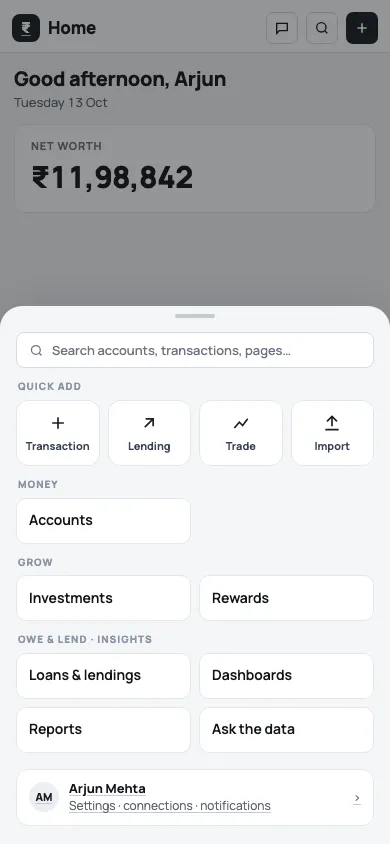
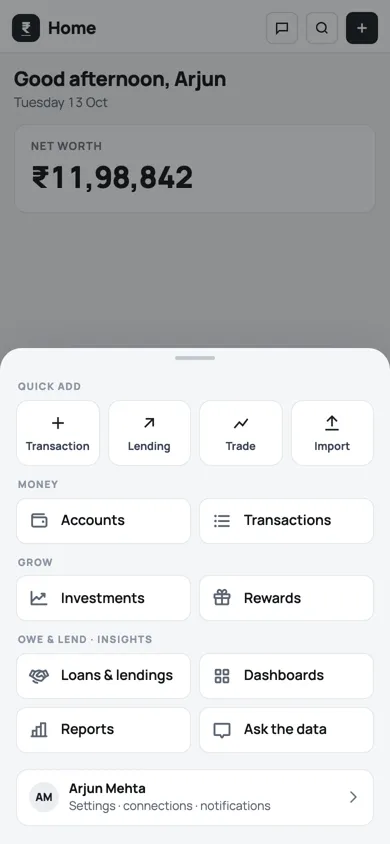
docs(ds): More sheet board — owner edits; Quick add exception to the single-+ rule
Claude-Session: https://claude.ai/code/session_01GuJVeVn4nSfBPv6fQZnC1T

diff --git a/design-system/screens/P-more.dc.html b/design-system/screens/P-more.dc.html
@@ -251,7 +251,6 @@ svg{flex:none}
 <div class="scrim"></div>
 <div class="dlg" style="max-height:92%;background:#F5F6F8" role="dialog" aria-label="More">
   <div style="padding:8px 16px 18px;overflow:auto">
-    <a class="inp" href="P-search.dc.html" style="color:#6B7280;margin-top:6px"><svg width="15" height="15" viewBox="0 0 24 24" fill="none" stroke="currentColor" stroke-width="2" aria-hidden="true"><circle cx="11" cy="11" r="7"/><path d="m20 20-3.5-3.5"/></svg>Search accounts, transactions, pages…</a>
     <div class="grp2">Quick add</div>
     <div style="display:grid;grid-template-columns:repeat(4,minmax(0,1fr));gap:8px">
       <a class="qa" href="P-transaction-create.dc.html"><svg width="20" height="20" viewBox="0 0 24 24" fill="none" stroke="#1B1E24" stroke-width="2" aria-hidden="true"><path d="M12 5v14M5 12h14"/></svg>Transaction</a>
@@ -260,12 +259,12 @@ svg{flex:none}
       <a class="qa" href="P-import.dc.html"><svg width="20" height="20" viewBox="0 0 24 24" fill="none" stroke="#1B1E24" stroke-width="2" aria-hidden="true"><path d="M12 16V4M6 10l6-6 6 6M4 20h16"/></svg>Import</a>
     </div>
     <div class="grp2">Money</div>
-    <div style="display:grid;grid-template-columns:1fr 1fr;gap:8px"><a class="it" href="P-accounts.dc.html">Accounts</a></div>
+    <div style="display:grid;grid-template-columns:1fr 1fr;gap:8px"><a class="it" href="P-accounts.dc.html"><svg style="color:#5B6472;flex:none" viewBox="0 0 256 256" width="20" height="20" fill="currentColor" aria-hidden="true"><path d="M196,136a16,16,0,1,1-16-16A16,16,0,0,1,196,136Zm40-36v80a32,32,0,0,1-32,32H60a32,32,0,0,1-32-32V60.92A32,32,0,0,1,60,28H192a12,12,0,0,1,0,24H60a8,8,0,0,0-8,8.26v.08A8.32,8.32,0,0,0,60.48,68H204A32,32,0,0,1,236,100Zm-24,0a8,8,0,0,0-8-8H60.48A33.72,33.72,0,0,1,52,90.92V180a8,8,0,0,0,8,8H204a8,8,0,0,0,8-8Z"/></svg>Accounts</a><a class="it" href="P-transactions.dc.html"><svg style="color:#5B6472;flex:none" viewBox="0 0 256 256" width="20" height="20" fill="currentColor" aria-hidden="true"><path d="M76,64A12,12,0,0,1,88,52H216a12,12,0,0,1,0,24H88A12,12,0,0,1,76,64Zm140,52H88a12,12,0,0,0,0,24H216a12,12,0,0,0,0-24Zm0,64H88a12,12,0,0,0,0,24H216a12,12,0,0,0,0-24ZM44,112a16,16,0,1,0,16,16A16,16,0,0,0,44,112Zm0-64A16,16,0,1,0,60,64,16,16,0,0,0,44,48Zm0,128a16,16,0,1,0,16,16A16,16,0,0,0,44,176Z"/></svg>Transactions</a></div>
     <div class="grp2">Grow</div>
-    <div style="display:grid;grid-template-columns:1fr 1fr;gap:8px"><a class="it" href="P-investments.dc.html">Investments</a><a class="it" href="P-rewards.dc.html">Rewards</a></div>
+    <div style="display:grid;grid-template-columns:1fr 1fr;gap:8px"><a class="it" href="P-investments.dc.html"><svg style="color:#5B6472;flex:none" viewBox="0 0 256 256" width="20" height="20" fill="currentColor" aria-hidden="true"><path d="M236,208a12,12,0,0,1-12,12H32a12,12,0,0,1-12-12V48a12,12,0,0,1,24,0v99l43.51-43.52a12,12,0,0,1,17,0L128,127l43-43H160a12,12,0,0,1,0-24h40a12,12,0,0,1,12,12v40a12,12,0,0,1-24,0V101l-51.51,51.52a12,12,0,0,1-17,0L96,129,44,181v15H224A12,12,0,0,1,236,208Z"/></svg>Investments</a><a class="it" href="P-rewards.dc.html"><svg style="color:#5B6472;flex:none" viewBox="0 0 256 256" width="20" height="20" fill="currentColor" aria-hidden="true"><path d="M216,68H190.06A33.82,33.82,0,0,0,196,49.69,36.62,36.62,0,0,0,158.31,12,33.44,33.44,0,0,0,134,23.25a54.65,54.65,0,0,0-6,8.3,54.65,54.65,0,0,0-6-8.3A33.44,33.44,0,0,0,97.69,12,36.62,36.62,0,0,0,60,49.69,33.82,33.82,0,0,0,65.94,68H40A20,20,0,0,0,20,88v32a20,20,0,0,0,16,19.6V200a20,20,0,0,0,20,20H200a20,20,0,0,0,20-20V139.6A20,20,0,0,0,236,120V88A20,20,0,0,0,216,68Zm-4,48H140V92h72ZM152,39.17A9.59,9.59,0,0,1,159,36h.35A12.62,12.62,0,0,1,172,49,9.59,9.59,0,0,1,168.83,56c-6.9,6.12-18.25,9.26-27.63,10.76C142.7,57.42,145.84,46.07,152,39.17ZM87.7,39.7A12.8,12.8,0,0,1,96.61,36H97A9.59,9.59,0,0,1,104,39.17c6.12,6.9,9.26,18.24,10.75,27.61C105.45,65.27,94,62.13,87.17,56A9.59,9.59,0,0,1,84,49,12.72,12.72,0,0,1,87.7,39.7ZM44,92h72v24H44Zm16,48h56v56H60Zm80,56V140h56v56Z"/></svg>Rewards</a></div>
     <div class="grp2">Owe &amp; lend · Insights</div>
-    <div style="display:grid;grid-template-columns:1fr 1fr;gap:8px"><a class="it" href="P-loans.dc.html">Loans &amp; lendings</a><a class="it" href="P-dashboards.dc.html">Dashboards</a><a class="it" href="P-reports.dc.html">Reports</a><a class="it" href="P-chat.dc.html">Ask the data</a></div>
-    <a href="P-settings-profile.dc.html" style="display:flex;align-items:center;gap:10px;margin-top:16px;padding:10px 12px;border-radius:12px;background:#fff;border:1px solid #E4E7EB;color:#121417"><span class="avr">AM</span><span style="flex:1"><span style="font-size:13px;font-weight:700;display:block">Arjun Mehta</span><span class="cs">Settings · connections · notifications</span></span><span style="color:#6B7280">›</span></a>
+    <div style="display:grid;grid-template-columns:1fr 1fr;gap:8px"><a class="it" href="P-loans.dc.html"><svg style="color:#5B6472;flex:none" viewBox="0 0 256 256" width="20" height="20" fill="currentColor" aria-hidden="true"><path d="M253.88,108.11l-25.53-51a20,20,0,0,0-26.83-9L178.34,59.7,131.7,44.58a12.14,12.14,0,0,0-7.4,0L77.66,59.7,54.48,48.11a20,20,0,0,0-26.83,9L2.12,108.11a20,20,0,0,0,9,26.83l26.67,13.34,51.18,37.41A12.15,12.15,0,0,0,93,187.62l62,16a12.27,12.27,0,0,0,3,.38,12,12,0,0,0,8.48-3.52l52.62-52.62,25.83-12.92a20,20,0,0,0,8.95-26.83Zm-58.12,29.15-27.52-26a12,12,0,0,0-16.76.26c-9.66,9.74-25.06,16.81-40.81,9.55l38.19-37h22.72l25.81,51.63ZM47.32,71.37,60.59,78l-22,43.9-13.27-6.63Zm107,107.3L101.23,165l-42-30.66L85.17,82.5,128,68.61l1.69.55L90,107.68l-.13.12a20,20,0,0,0,3.4,31c20.95,13.39,46,12.07,66.33-2.73l19.2,18.15Zm63-56.77-22-43.9,13.27-6.63,21.95,43.9ZM118.55,219a12,12,0,0,1-14.62,8.62l-26.6-6.87a12,12,0,0,1-4.08-1.93L48.92,201a12,12,0,0,1,14.16-19.37l22.47,16.42,24.38,6.29A12,12,0,0,1,118.55,219Z"/></svg>Loans &amp; lendings</a><a class="it" href="P-dashboards.dc.html"><svg style="color:#5B6472;flex:none" viewBox="0 0 256 256" width="20" height="20" fill="currentColor" aria-hidden="true"><path d="M100,36H56A20,20,0,0,0,36,56v44a20,20,0,0,0,20,20h44a20,20,0,0,0,20-20V56A20,20,0,0,0,100,36ZM96,96H60V60H96ZM200,36H156a20,20,0,0,0-20,20v44a20,20,0,0,0,20,20h44a20,20,0,0,0,20-20V56A20,20,0,0,0,200,36Zm-4,60H160V60h36Zm-96,40H56a20,20,0,0,0-20,20v44a20,20,0,0,0,20,20h44a20,20,0,0,0,20-20V156A20,20,0,0,0,100,136Zm-4,60H60V160H96Zm104-60H156a20,20,0,0,0-20,20v44a20,20,0,0,0,20,20h44a20,20,0,0,0,20-20V156A20,20,0,0,0,200,136Zm-4,60H160V160h36Z"/></svg>Dashboards</a><a class="it" href="P-reports.dc.html"><svg style="color:#5B6472;flex:none" viewBox="0 0 256 256" width="20" height="20" fill="currentColor" aria-hidden="true"><path d="M224,196h-4V40a12,12,0,0,0-12-12H152a12,12,0,0,0-12,12V76H96A12,12,0,0,0,84,88v36H48a12,12,0,0,0-12,12v60H32a12,12,0,0,0,0,24H224a12,12,0,0,0,0-24ZM164,52h32V196H164Zm-56,48h32v96H108ZM60,148H84v48H60Z"/></svg>Reports</a><a class="it" href="P-chat.dc.html"><svg style="color:#5B6472;flex:none" viewBox="0 0 256 256" width="20" height="20" fill="currentColor" aria-hidden="true"><path d="M216,36H40A20,20,0,0,0,20,56V184a20,20,0,0,0,20,20H98.11l12.52,21.92a20,20,0,0,0,34.74,0L157.89,204H216a20,20,0,0,0,20-20V56A20,20,0,0,0,216,36Zm-4,144H150.93a12,12,0,0,0-10.42,6.05L128,207.94l-12.51-21.89A12,12,0,0,0,105.07,180H44V60H212Z"/></svg>Ask the data</a></div>
+    <a class="me-row" href="P-settings-profile.dc.html" style="display:flex;align-items:center;gap:10px;margin-top:16px;padding:10px 12px;border-radius:12px;background:#fff;border:1px solid #E4E7EB;color:#121417"><span class="avr">AM</span><span style="flex:1"><span style="font-size:13px;font-weight:700;display:block">Arjun Mehta</span><span class="cs">Settings · connections · notifications</span></span><svg style="color:#6B7280;flex:none" viewBox="0 0 256 256" width="16" height="16" fill="currentColor" aria-hidden="true"><path d="M184.49,136.49l-80,80a12,12,0,0,1-17-17L159,128,87.51,56.49a12,12,0,1,1,17-17l80,80A12,12,0,0,1,184.49,136.49Z"/></svg></a>
   </div>
 </div>
 </div><nav class="ptabs" aria-label="Primary"><a class="tabi" href="P-home.dc.html"><svg width="20" height="20" viewBox="0 0 24 24" fill="none" stroke="currentColor" stroke-width="2" aria-hidden="true"><path d="M3 11 12 3l9 8v10H3z"/></svg>Home</a><a class="tabi" href="P-inbox.dc.html"><svg width="20" height="20" viewBox="0 0 24 24" fill="none" stroke="currentColor" stroke-width="2" aria-hidden="true"><path d="M4 4h16v12H4zM4 12h5l2 3h2l2-3h5"/></svg>Inbox<span style="position:absolute;top:-4px;right:16px;background:#C5203F;color:#fff;border-radius:999px;font-size:9px;padding:1px 5px">9</span></a><a class="tabi" href="P-upcoming.dc.html"><svg width="20" height="20" viewBox="0 0 24 24" fill="none" stroke="currentColor" stroke-width="2" aria-hidden="true"><rect x="3" y="5" width="18" height="16" rx="2"/><path d="M3 10h18M8 3v4M16 3v4"/></svg>Upcoming</a><a class="tabi" href="P-transactions.dc.html"><svg width="20" height="20" viewBox="0 0 24 24" fill="none" stroke="currentColor" stroke-width="2" aria-hidden="true"><path d="M4 7h16M4 12h16M4 17h10"/></svg>Transactions<span style="position:absolute;top:-4px;right:8px;background:#B45309;color:#fff;border-radius:999px;font-size:9px;padding:1px 5px">25</span></a><a class="tabi tabi-on" href="P-more.dc.html"><svg width="20" height="20" viewBox="0 0 24 24" fill="none" stroke="currentColor" stroke-width="2" aria-hidden="true"><path d="M4 7h16M4 12h16M4 17h16"/></svg>More</a></nav></div></div>

diff --git a/design-system/PROGRESS.md b/design-system/PROGRESS.md
@@ -217,6 +217,7 @@ Only the owner adds to this list. Each entry has a date and the decision.
 - 2026-10-16 · **Text component** added to Dinero; pages render all text through it. Pages may use layout classes only; anything visual comes from a component (RULES §5d). Missing components are flagged for the owner, never hand-made.
 - 2026-10-16 · Dinero gains `Root` (page ground + Toaster), ListRow `asChild` (rows as links) and an edge-to-edge Illustration panel, so pages need no hand styling (decided by Claude under the owner's "no hand-made styling" rule; owner may revisit).
 - 2026-10-16 · **Button loading** uses the new `spinner` icon (Phosphor circle-notch), never a spun copy of another icon.
+- 2026-10-16 · **More sheet board refined by the owner** (`P-more`): Quick add kept (RULES §7.1 exception), search bar removed, Transactions added under Money, navigation icons on every row, profile row without underline. The More component work is still on hold until the owner finishes the More discussion.
 - 2026-10-16 · **More popup is on hold**: the owner will discuss it separately. More links to the More screen until then; the drawing stays as a parked proposal.
 - 2026-10-16 · Copy on the /ds auth pages as built is accepted; their layout must follow the boards exactly.
 - 2026-10-15 · Accessibility is out of scope: no ARIA, screen-reader or contrast work. The Storybook accessibility addon stays installed but is not a check.

diff --git a/design-system/RULES.md b/design-system/RULES.md
@@ -164,7 +164,7 @@ These are the rules a mature design system (Radix, Material, Polaris, Atlassian)
 
 ## 7. Mobile patterns
 
-1. The app bar's **+** is the only add button. It opens the add form for the current screen. Pages never carry "New …" or "Add …" header buttons.
+1. The app bar's **+** is the only add button. It opens the add form for the current screen. Pages never carry "New …" or "Add …" header buttons. The one exception is **Quick add** in the More sheet (Transaction · Lending · Trade · Import), which the owner kept on 2026-10-16.
 2. No body title on phone; the app bar carries it. Tab strips and filter-chip rows scroll sideways and never wrap.
 3. A single choice is a dropdown; several choices are a multi-select dropdown. Never tiles or chip groups in forms (the four account-type buttons on Add account are the only exception).
 4. Selection: long-press starts it, tap toggles, the eye icon opens the detail without leaving selection. No checkboxes on phone; desktop uses checkboxes. The selection bar docks at the bottom.
